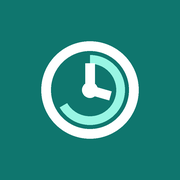
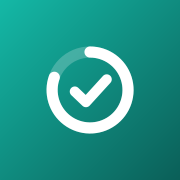
Ilova nomi: Mezon, yangi belgi

diff --git a/index.html b/index.html
@@ -3,13 +3,13 @@
 <head>
 <meta charset="utf-8">
 <meta name="viewport" content="width=device-width, initial-scale=1, viewport-fit=cover">
-<title>Vaqt taqsimoti</title>
+<title>Mezon</title>
 <meta name="theme-color" content="#0f766e">
 <link rel="manifest" href="manifest.webmanifest">
 <link rel="icon" href="icon-192.png">
 <link rel="apple-touch-icon" href="apple-touch-icon.png">
 <meta name="apple-mobile-web-app-capable" content="yes">
-<meta name="apple-mobile-web-app-title" content="Vaqt">
+<meta name="apple-mobile-web-app-title" content="Mezon">
 <script>
   // Ilovaning asosiy manzili (Google Apps Script veb-ilovasi). Unga faqat egasi kira oladi.
   var APP_URL = 'https://script.google.com/macros/s/AKfycbzppYi21_8Iev5Fbb-4Y87Sp6JpiEwDOIFYhwb4x8WstROgFpoDCSZm01E1uZQiBaCa/exec';
@@ -39,8 +39,8 @@
 <body>
   <main class="card" id="landing">
     <img src="icon-192.png" alt="">
-    <h1>Vaqt taqsimoti</h1>
-    <p>Kunlik vaqt jurnali — telefon va kompyuterda</p>
+    <h1>Mezon</h1>
+    <p>Vaqt · Kundalik · Moliya · Odatlar — telefon va kompyuterda</p>
     <button class="btn primary hide" id="install">Ilovani o'rnatish</button>
     <a class="btn ghost" id="open">Brauzerda ochish</a>
     <div class="hint" id="hint">
@@ -65,7 +65,7 @@
   });
   window.addEventListener('appinstalled', function () {
     btn.classList.add('hide');
-    document.getElementById('hint').innerHTML = '<b>O\'rnatildi.</b> Endi ilovani bosh ekrandagi "Vaqt taqsimoti" belgisidan oching.';
+    document.getElementById('hint').innerHTML = '<b>O\'rnatildi.</b> Endi ilovani bosh ekrandagi "Mezon" belgisidan oching.';
   });
 
   if ('serviceWorker' in navigator) {

diff --git a/sw.js b/sw.js
@@ -1,7 +1,7 @@
 // Ilova qobig'ini keshda saqlaydi, shunda belgidan tez ochiladi.
 // Jadval ma'lumotlari bu yerda saqlanmaydi.
-const CACHE = 'vaqt-qobiq-v1';
-const FILES = ['./', './index.html', './manifest.webmanifest', './icon-192.png', './icon-512.png'];
+const CACHE = 'vaqt-qobiq-v2';
+const FILES = ['./', './index.html', './manifest.webmanifest', './icon-192.png', './icon-512.png', './icon.svg'];
 
 self.addEventListener('install', e => {
   e.waitUntil(caches.open(CACHE).then(c => c.addAll(FILES)).then(() => self.skipWaiting()));
